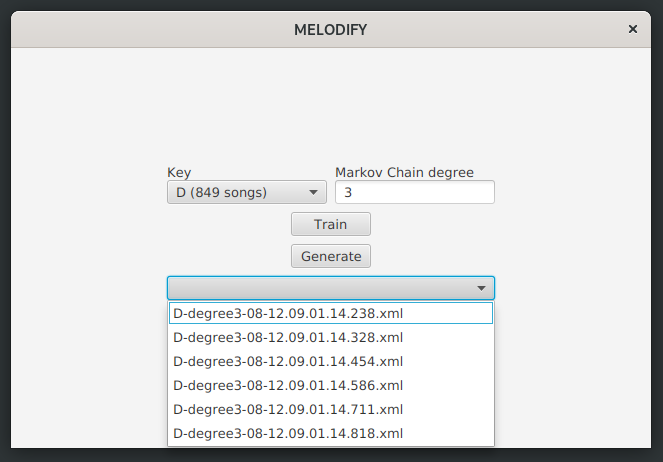
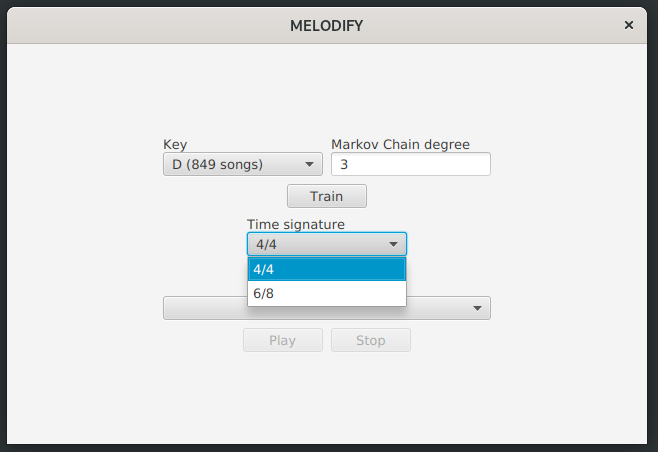
finalize week5

Changed region(s): [[0.0, 0.0, 1.0, 0.9912]]

diff --git a/README.md b/README.md
@@ -18,6 +18,7 @@ The application will read MusicXML files as training data to populate a stochast
 - [Week 2](/docs/weeklies/week2.md)
 - [Week 3](/docs/weeklies/week3.md)
 - [Week 4](/docs/weeklies/week4.md)
+- [Week 5](/docs/weeklies/week5.md)
 
 Select the commit with tag "weekN" to review the repository in the intended state for the week N submission.
 
@@ -39,39 +40,30 @@ Run the following commands in the project root to start the application:
 mvn install -f melodify/pom.xml
 
 # Start application
-mvn javafx:run -f melodify/pom.xml
+mvn clean javafx:run -f melodify/pom.xml
 ```
 
 Other commands:
 ```sh
-# Run unit tests
-mvn test -f melodify/pom.xml
-
-# Create mutation test report (found in melodify/target/pit-reports)
-mvn test-compile pitest:mutationCoverage -f melodify/pom.xml
-
-# Run UI tests
-mvn -DskipUItests=false failsafe:integration-test -f melodify/pom.xml
-
 # Create site for the project (e.g. checkstyle report found in melodify/target/site)
-mvn site -f melodify/pom.xml
+mvn clean site -f melodify/pom.xml
 ```
 
 ### Usage
 
-After starting the application the training data is loaded and user can select a key and the degree of the Markov's Chain (min 1 max 6) to use for training the model. Current (week4) training data package contains a set of Irish jigs in D and this should come across the generated melodies at least a little bit.
+After starting the application the training data is loaded and user can select a key and the degree of the Markov's Chain (min 1 max 6) to use for training the model. Current training data package contains a set of Irish jigs in D and this should come across the generated melodies at least a little bit.
 
 ![training](/docs/images/howto_train.png)
 
-After setting the parameters and training the model the generate button becomes enabled. Melodies will be written to file for playback. Generation should be more or less instantaneous and the file should become visible in the dropdown. Filename shows the key and degree as well as timestamp to the milliseconds in case the user mashes the generate button like I did for the example here.
+After setting the parameters and training the model the generate button becomes enabled. Time signature selection is a small curiosity here for playback as there is also a rhythm when playing the generation in the app. Generated melodies will be written to file as MusicXML for playback in the app and also saved in MIDI format (without the rhythm).
 
 ![generating](/docs/images/howto_generate.png)
 
-Once a file is selected playback can be started.
+Generation should be more or less instantaneous and the file should become visible in the dropdown. Once a file is selected playback can be started.
 
 ![playback](/docs/images/howto_playback.png)
 
-Playback can be started and stopped from the buttons. Playback happens on another thread so as to not block the UI and therefore also prevent pressing the stop button. Other controls are disabled during playback. The generated melody should play from system audio with a MIDI piano sound and a hardcoded rhythm to fit the current training data. Full generated melody is 90 notes long as an arbitrary hardcoded limit for now. It's possible that the generation is shorter if it found a sequence with no following notes.
+Playback happens on another thread so as to not block the UI and therefore also prevent pressing the stop button. Other controls are disabled during playback. Full generated melody is 120 notes long as an arbitrary hardcoded limit for now. It's possible that the generation is shorter if it found a sequence with no following notes.
 
 NOTE: when starting the playback it is often not perfectly in sync right in the beginning but evens out quite quick to a stable rhythm (something to fix later perhaps).
 

diff --git a/docs/testing.md b/docs/testing.md
@@ -10,7 +10,7 @@ The project is unit tested with JUnit. Tests are run automatically in CI environ
 
 Full unit test suite can be run manually from the project root with:
 ```sh
-mvn test -f melodify/pom.xml
+mvn clean test -f melodify/pom.xml
 ```
 
 Inputs for strict unit tests (testing one method in isolation) are usually formed in the test class and consist of valid and invalid inputs for the methods in question. Classes are also tested in integration with each other. For these "integration tests", inputs are from real training data when feasible (see for example [TrainingServiceTest.java](/melodify/src/test/java/org/juhanir/services/TrainingServiceTest.java)).
@@ -21,12 +21,12 @@ Inputs for strict unit tests (testing one method in isolation) are usually forme
 This project uses a mutation test framework called pitest (see brief intro at https://pitest.org/). It also collects line coverage which can be seen in the current coverage image above. The report will be generated under the `melodify/target` folder in html format and can be viewed in the browser. Mutation tests are currently not part of CI and can be run manually with:
 
 ```sh
-mvn test-compile pitest:mutationCoverage -f melodify/pom.xml
+mvn clean test-compile pitest:mutationCoverage -f melodify/pom.xml
 ```
 
 ### Testing the generation results
 
-As the generated melodies are produced by weighted random selection, it is not possible to test them in great accuracy other than to check that they exist in the input data. Unit tests cover cases *with small inputs* where each generated sequence is checked to exist in the source data. For large inputs from multiple actual training data files this is not yet done.
+As the generated melodies are produced by weighted random selection, it is not possible to test them in great accuracy other than to check that they exist in the input data. Unit tests cover cases *with small inputs* where each generated sequence is checked to exist in the source data. Some tests use large inputs from multiple actual training data files to get more confidence on the generation correctness.
 
 ### Performace tests
 
@@ -34,8 +34,8 @@ None at the moment, the trie lookup and insert operations might be somehow teste
 
 ### User Interface tests
 
-The project uses TestFX framework to test the running application by interacting with the UI. These tests are excluded in the maven lifecycle and can only be run manually:
+The project uses TestFX framework to test the running application by interacting with the UI and these are the only automated tests that target the UI layer. These tests are excluded in the maven lifecycle and can only be run manually:
 
 ```sh
-mvn -DskipUItests=false failsafe:integration-test -f melodify/pom.xml
+mvn -DskipUItests=false clean test-compile failsafe:integration-test -f melodify/pom.xml
 ```

diff --git a/docs/weeklies/week5.md b/docs/weeklies/week5.md
@@ -1,6 +1,23 @@
 ## Hours
 
-Quite a lot of small issues trying to get the jar to contain all needed dependencies. Issues about `com.sun.xml.bind...` that did not appear when running with javafx launcher but didn't work in the jar. Needed to add a new dependency to the project for that. Also the application entrypoint must not extend the javafx.Application so needed to add a wrapper class for it. Other issues as well,
+Added more tests with several real source files for more confidence on generation correctness. Also added a UI test framework TestFX to run a simple walkthrough of the user interface, so there is some test automation for the UI layer as well. The "view" classes are not unit tested, as their unit testing would mean bootstrapping a JavaFX.Application context for any of the elements to work. It felt more meaningful to system-test the whole thing via the UI.
+
+I also added a better info message functionality to the UI, included a logger service and removed all System.out.printlns. There is also now a selection for time signature. This affects whether the generated melody is in 1/4 or 1/8 notes and also the rhythm for the playback from the app. A MIDI file from the generation is also produced.
+
+Quite a lot of small issues trying to get the jar to contain all needed dependencies. Issues about `com.sun.xml.bind...` that did not appear when running with javafx launcher but did appear when executing the jar. Needed to add a new dependency to the project for that. Also the application entrypoint must not extend the javafx.Application so needed to add a wrapper class for it. Other issues as well, it is somewhat difficult to get the external data folder to work both with a local build with maven using the javafx launcher and with the built Java Archive. Lack of experience I guess. Due to how the path to `data` is resolved, the jar works if it is in a folder structure like this and you run `java -jar name_of_jar.jar` _inside_ the jarfolder.
+```
+.
+├── jarfolder (jar inside here)
+└── data
+      ├── musicxml
+      └── output
+```
+In a more user-oriented app the data source folder could be selected by opening a filesystem browser, but I'm not going to do that here.
+
+TODO:
+- add some more songs for the final data package
+- go throught the code and check the suggestions from the code review
+- if time, add some flare to the UI
 
 |Amount|What I did|
 |-|-|
@@ -9,4 +26,5 @@ Quite a lot of small issues trying to get the jar to contain all needed dependen
 |2|simplify displaying messages in the UI|
 |2|create a working jar|
 |3|time signature to generation and playback|
-|||
+|2|update and finalize docs for week 5 submission|
+|16||
